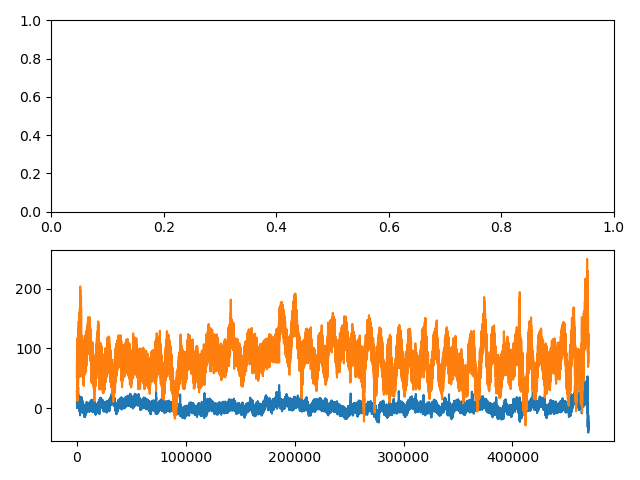
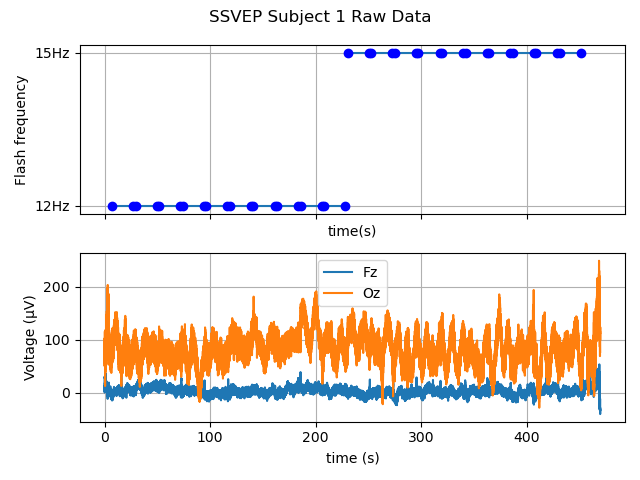
Add files via upload

diff --git a/import_ssvep_data.py b/import_ssvep_data.py
@@ -9,6 +9,8 @@ Sources:
     
     Avoiding printing "dict_keys" data type: https://blog.finxter.com/python-print-dictionary-keys-without-dict_keys/
     
+    Setting axis tickmarks: ChatGPT
+    
 """
 
 # import statements
@@ -20,9 +22,9 @@ import scipy.fft
 def load_ssvep_data(subject, data_directory='SsvepData/'):
     
     # load data
-    data = np.load(f'{data_directory}/SSVEP_S{subject}.npz', allow_pickle=True)
+    data = np.load(f'{data_directory}SSVEP_S{subject}.npz', allow_pickle=True)
     
-    # create data dictionary
+    # create data dictionary (convert existing data type to dict)
     data_dict = {'eeg': data['eeg'], 'channels': data['channels'], 'fs': data['fs'], 'event_samples': data['event_samples'], 'event_durations': data['event_durations'], 'event_types': data['event_types']}
     
     # printing to inform user of some data features
@@ -34,68 +36,196 @@ def load_ssvep_data(subject, data_directory='SsvepData/'):
     return data_dict
 
 #%% Part 2: Plot the Data
+
 def plot_raw_data(data, subject, channels_to_plot):
     
-    #extract data
+    # extract data
+    eeg = data['eeg']
+    channels = list(data['channels'])
+    fs = data['fs']
     event_durations = data['event_durations']
     event_samples = data['event_samples']
     event_types = data['event_types']
-    all_channels = list(data['channels'])
     
-    #compute event intervals and start/finish times
-    event_intervals = []
+    # find sample times
+    t = [] # declare list to contain each sample time in seconds
+    # load in times in seconds for all samples
+    for sample_index in range(len(eeg.T)):
+        
+        t.append(sample_index*(1/fs)) # add to time list by dividing sample number by sample frequency
+    
+    # find event samples and times
+    event_intervals = [] # list to contain samples for event intervals
+    # find event intervals using corresponding sample index and duration
     for sample_index in range(len(event_samples)):
       
         event_start = event_samples[sample_index]
-        event_finish = int(event_samples[sample_index] + event_durations[sample_index])
+        event_finish = int(event_samples[sample_index]+event_durations[sample_index])
         
         event_intervals.append((event_start, event_finish))
-    
-    # define time axis
-    t = np.arange(len(data['eeg'].T)) # tentative, number of samples
+        
+    # times in seconds for event samples
+    for sample_index in range(len(event_samples)):
+        
+        event_intervals[sample_index] = np.array(event_intervals[sample_index])/fs # convert each event sample number to a time, must convert to array first
     
     # initialize figure
-    fig, ax = plt.subplots(2, sharex=True)
+    figure, sub_figure = plt.subplots(2, sharex=True)
     
-    # top subplot to contain event start/end times, types
+    # top subplot containing flash frequency over span of event
+    for event_number, interval in enumerate(event_intervals):
     
-    # set plot title
-    ax[0].set_title(f'SSVEP Subject {subject} Raw Data')
-    
-    #subplot 1
-    for event_num, interval in enumerate(event_intervals):
-    
-        if event_types[event_num] == "12hz":
-            ax[0].hlines(xmin = interval[0], xmax = interval[1], y = 12,label = 'o')
-            ax[0].plot([interval[0], interval[1]], [12,12], 'bo')
+        if event_types[event_number] == "12hz":
+            sub_figure[0].hlines(xmin = interval[0], xmax = interval[1], y = 12,label = 'o')
+            sub_figure[0].plot([interval[0], interval[1]], [12,12], 'bo')
     
         else:
-            ax[0].hlines(xmin = interval[0], xmax = interval[1], y = 15,label = 'o')
-            ax[0].plot([interval[0], interval[1]], [15,15], 'bo')
+            sub_figure[0].hlines(xmin = interval[0], xmax = interval[1], y = 15,label = 'o')
+            sub_figure[0].plot([interval[0], interval[1]], [15,15], 'bo')
     
-    ax[0].set_xlabel('time(s)')
-    ax[0].grid(alpha=0.2,color="black")
-    #ax[0].vlines([x if x % 1000 == 0 else None for x in range(data['eeg'].shape[-1])], ymin = 12, ymax = 15)
-      
-    # bottom subplot to contain raw data from specified electrodes
+    # bottom subplot contain raw data from specified electrodes
     for channel_number, channel_name in enumerate(channels_to_plot):
       
-        channel_index = all_channels.index(channel_name) # index of channel of interest considering all channels
+        channel_index = channels.index(channel_name) # index of channel of interest considering all channels
         
-        eeg_data = data['eeg'][channel_index] # define EEG data for the channel
+        eeg_data = data['eeg'][channel_index] # EEG data for the channel
     
-        ax[1].plot(t, eeg_data*(10**6)) # plot EEG data in uV from given channel
-        #ax[1].set_title(f"Channel {channel} EEG plot")
+        sub_figure[1].plot(t, eeg_data*(10**6), label=channel_name) # plot EEG data in µV from channel
     
     # format figure
-    fig.tight_layout()
-    ax[1].set_xlabel('time (s)')
+    # subplot 1
+    sub_figure[0].set_xlabel('time(s)')
+    sub_figure[0].set_ylabel('Flash frequency')
+    sub_figure[0].set_yticks([12,15])
+    sub_figure[0].set_yticklabels(['12Hz','15Hz'])
+    sub_figure[0].grid()
+    
+    # subplot 2
+    sub_figure[1].set_xlabel('time (s)')
+    sub_figure[1].set_ylabel('Voltage (µV)')
+    sub_figure[1].legend(loc='best') # place legend in best location given data
+    sub_figure[1].grid()
+    
+    # set plot title
+    figure.suptitle(f'SSVEP Subject {subject} Raw Data')
+    
+    # general appearance
+    figure.tight_layout()
     
     # save image
     plt.savefig(f'SSVEP_S{subject}_rawdata.png')
 
 #%% Part 3: Extract the Epochs
 
+def epoch_ssvep_data(data_dict, epoch_start_time=0, epoch_end_time=20):
+  
+    # extract data
+    eeg = data_dict['eeg']
+    channels = list(data_dict['channels']) # convert to list
+    fs = data_dict['fs']
+    event_durations = data_dict['event_durations']
+    event_samples = data_dict['event_samples']
+    event_types = data_dict['event_types']
+    time_per_epoch = int(fs*(epoch_end_time-epoch_start_time)) # convert to int
+    
+    list_of_channel_epoch_arrays = []
+    
+    for channel in channels:
+        
+        channel_index = channels.index(channel)
+        eeg_data = eeg[channel_index]
+        epoch_list = [] 
+        
+        for sample_index in range(len(event_samples)):
+            start = event_samples[sample_index]
+            end = event_samples[sample_index] + int(event_durations[sample_index])
+            epoch_index = eeg_data[start:end]
+            epoch_list.append(epoch_index)
+    
+        epoch_array = np.stack(epoch_list)
+    
+        list_of_channel_epoch_arrays.append(epoch_array)
+   
+    eeg_epochs = np.stack(list_of_channel_epoch_arrays, axis=1)
+    
+    epoch_times = np.linspace(epoch_start_time, epoch_end_time, time_per_epoch)
+    
+    is_trial_15Hz = [True if event == '15hz' else False for event in event_types]
+    
+    is_trial_15Hz = np.array(is_trial_15Hz)
+    
+    return eeg_epochs, epoch_times, is_trial_15Hz
+
 #%% Part 4: Take the Fourier Transform
 
+def get_frequency_spectrum(eeg_epochs, fs):
+  
+    # take the Fourier Transform of the epoched EEG data
+    eeg_epochs_fft = np.fft.rfft(eeg_epochs)
+    
+    # find the corresponding frequencies from the epoched EEG data
+    fft_frequencies = np.fft.rfftfreq(n=eeg_epochs.shape[-1], d=1/fs) # n is the number of samples in the signal (dimension 2 (final dimension) in eeg_epochs), d is the inverse of sampling frequency
+  
+    return eeg_epochs_fft, fft_frequencies
+
 #%% Part 5: Plot the Power Spectra
+
+def plot_power_spectrum(eeg_epochs_fft, fft_frequencies, is_trial_15Hz, channels, channels_to_plot, subject):
+
+    # convert channels to list
+    channels = list(channels)
+    
+    # calculating power spectra
+    # isolate frequency spectra by event type (12Hz or 15Hz)
+    event_15 = eeg_epochs_fft[is_trial_15Hz]
+    event_12 = eeg_epochs_fft[~is_trial_15Hz]
+    
+    # calculate power for event type
+    event_15_power = (np.abs(event_15))**2
+    event_12_power = (np.abs(event_12))**2 
+    
+    # calculate mean power for event type
+    event_15_power_mean = event_15_power.mean(0)
+    event_12_power_mean = event_12_power.mean(0)
+    
+    # calculate normalized power for event type
+    normalized_event_15_power_mean = event_15_power_mean/(np.max(event_15_power_mean))
+    normalized_event_12_power_mean = event_12_power_mean/(np.max(event_12_power_mean))
+    
+    # calculate spectra for event type
+    spectrum_db_15Hz = 10*(np.log10(normalized_event_15_power_mean))
+    spectrum_db_12Hz = 10*(np.log10(normalized_event_12_power_mean))
+    
+    # plotting
+    # isolate channel being plotted
+    channel_to_plot = [channels.index(channel_name) for channel_name in channels_to_plot]
+    
+    # set up figure
+    figure, channel_plot = plt.subplots(len(channels_to_plot))
+    
+    for plot_index, channel in enumerate(channel_to_plot): # plot_index as a means of accessing a subplot
+        
+        # plot the power spectra by event type
+        channel_plot[plot_index].plot(fft_frequencies, spectrum_db_12Hz[channel,:], color='red')
+        channel_plot[plot_index].plot(fft_frequencies, spectrum_db_15Hz[channel,:], color='green')
+        
+        # formatting subplot
+        channel_plot[plot_index].set_xlim(0,80)
+        channel_plot[plot_index].set_xlabel('frequency (Hz)')
+        channel_plot[plot_index].set_ylabel('power (dB)')
+        channel_plot[plot_index].set_title(f'Channel {channels_to_plot[plot_index]}')
+        channel_plot[plot_index].legend(['12Hz','15Hz'], loc='best')
+        channel_plot[plot_index].grid()
+        
+        # plot dotted lines at 12Hz and 15Hz
+        channel_plot[plot_index].axvline(12, color='red', linestyle='dotted')
+        channel_plot[plot_index].axvline(15, color='green', linestyle='dotted')
+    
+    # format overall plot
+    figure.suptitle(f'SSVEP Subject S{subject} Frequency Content')
+    figure.tight_layout()
+    
+    # save image
+    plt.savefig(f'SSVEP_S{subject}_frequency_content.png')
+    
+    return spectrum_db_15Hz, spectrum_db_12Hz

diff --git a/test_import_ssvep_data.py b/test_import_ssvep_data.py
@@ -6,8 +6,8 @@ Created on Sun Feb 25 22:02:31 2024
 @author: Peijin Chen and Claire Leahy
 """
 
-# import statements
-from import_ssvep_data import load_ssvep_data, plot_raw_data
+# import applicable functions from module
+from import_ssvep_data import load_ssvep_data, plot_raw_data, epoch_ssvep_data, get_frequency_spectrum, plot_power_spectrum
 
 #%% Part 1: Load the Data
 
@@ -19,4 +19,54 @@ data_dict = load_ssvep_data(subject=1, data_directory='SsvepData/')
 # plot the EEG data from electodes Fz and Oz for subject 1
 plot_raw_data(data=data_dict, subject=1, channels_to_plot=['Fz','Oz'])
 
+
+#%% Part 3: Extract the Epochs
+
+# extract epochs (as written for subject 1)
+eeg_epochs, epoch_times, is_trial_15Hz = epoch_ssvep_data(data_dict, epoch_start_time=0, epoch_end_time=20)
+
+#%% Part 4: Take the Fourier Transform
+
+# get the frequency spectrum (as written for subject 1)
+eeg_epochs_fft, fft_frequencies = get_frequency_spectrum(eeg_epochs, fs=data_dict['fs'])
+
+#%% Part 5: Plot the Power Spectra
+
+# plot the power spectra for electrodes Fz and Oz for subject 1
+spectrum_db_15Hz, spectrum_db_12Hz = plot_power_spectrum(eeg_epochs_fft, fft_frequencies, is_trial_15Hz, channels=data_dict['channels'], channels_to_plot=['Fz','Oz'], subject=1)
+
+#%% Run everything for S2
+
+data_dict2 = load_ssvep_data(subject=2, data_directory='SsvepData/')
+
+plot_raw_data(data=data_dict2, subject=2, channels_to_plot=['Fz','Oz'])
+
+eeg_epochs2, epoch_times2, is_trial_15Hz2 = epoch_ssvep_data(data_dict2, epoch_start_time=0, epoch_end_time=20)
+
+eeg_epochs_fft2, fft_frequencies2 = get_frequency_spectrum(eeg_epochs2, fs=data_dict2['fs'])
+
+spectrum_db_15Hz2, spectrum_db_12Hz2 = plot_power_spectrum(eeg_epochs_fft2, fft_frequencies2, is_trial_15Hz2, channels=data_dict2['channels'], channels_to_plot=['Fz','Oz'], subject=2)
+
+
 #%% Part 6: Reflect
+
+# need to include citations
+
+"""
+1. On some electrodes, there are peaks in the spectra at 12Hz for 12Hz trials and 15Hz for 15Hz trials. What is the name for the brain signal that leads to these peaks? Where in the brain do they originate and why (i.e., what function does this brain region serve)?
+    
+    a. Steady-state visual evoked potentials (SSVEPs) are the signals that provide the peaks in those spectra. Steady-state refers to the repetitive nature of the flashes presented to the BCI user, and visual evoked potentials are voltages (brain signals measured using electroencephalography) that appear in the signal due to a visual external stimulus. Generally, these peaks are observed within the occipital lobe, which is largely responsible for processign visual data.
+
+2. There are smaller peaks at integer multiples of these peak frequencies. What do you call these integer multiples? Why might we see them in the data?
+    
+    a. These peaks at multiples of the event frequencies are known as harmonics. They occur due to neuronal responses to stimuli, as the neurons respond in a nonlinear fashion.
+
+3. There’s a peak in the spectra at 50Hz. What is the most likely cause for this peak?
+    
+    a. This peak at 50Hz is very likely to be an artifact related to utility frequency. In many regions, 50Hz is the frequency of the alternating current electrical supply, and this electricity can interfere with the signal detected by the electrodes.
+
+4. Besides the sharp peaks just described, there’s a frequency spectrum where the power is roughly proportional to 1 over the frequency. This is a common pattern in biological signals and is sometimes called “1/f” or “neural noise” in EEG. But on top of that, there’s a slight upward bump around 10 Hz on some electrodes. What brain signal might cause this extra power at about 10Hz? Which channels is it most prominently observed on, and why might this be?
+    
+    a. Alpha waves?
+
+"""
